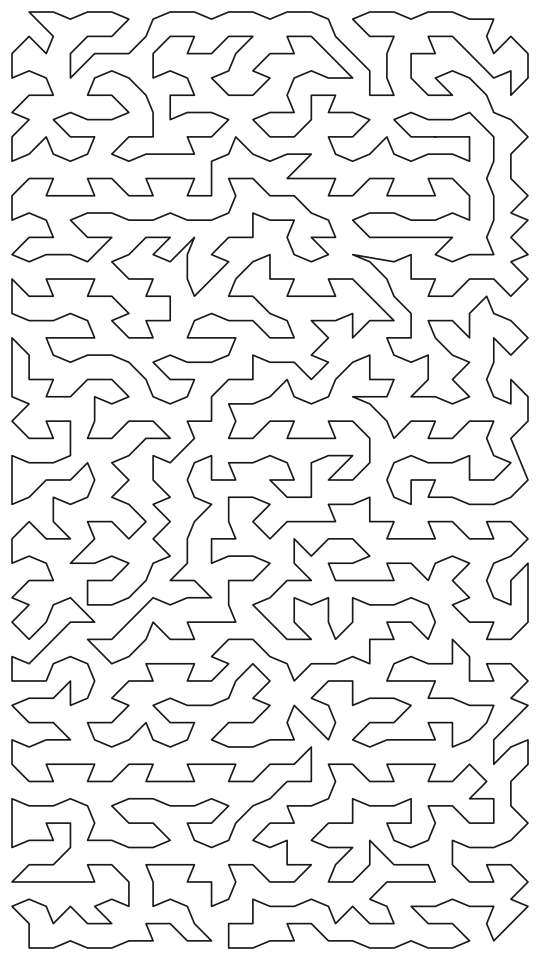
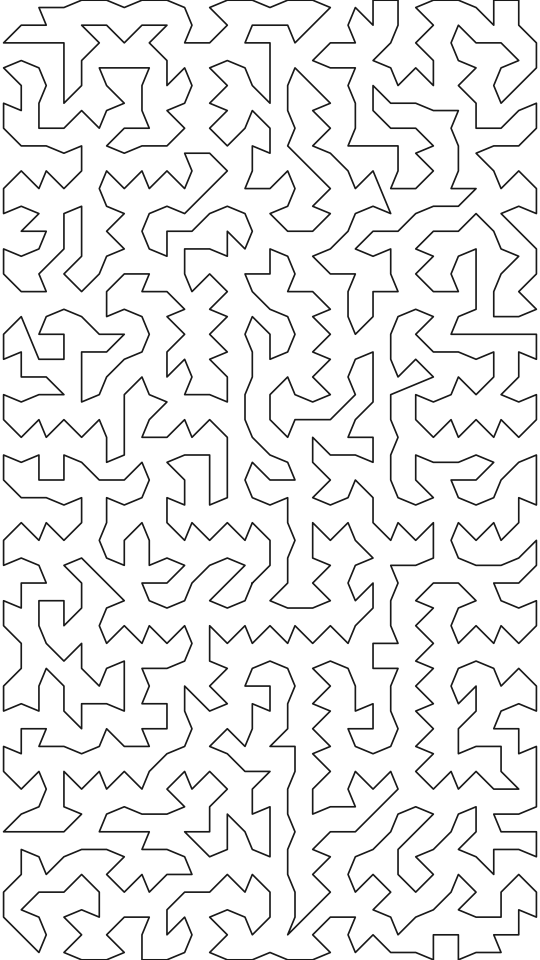
Match DPI in grid and path files

Changed region(s): [[0.0, 0.0, 1.0, 1.0]]

diff --git a/src/hamiltonian_path.py b/src/hamiltonian_path.py
@@ -24,14 +24,18 @@ MARGIN = 12  # pixel padding around the drawing region
 
 def extract_vertices_from_tiling(tiling: AmmannBeenkerTiling,
                                k_range: range = None) -> List[Tuple[float, float]]:
-    """Extract all unique vertices from the Ammann-Beenker tiling."""
+    """Extract all unique vertices from the Ammann-Beenker tiling.
+
+    Uses the EXACT same coordinate transformation as the grid plotting
+    to ensure perfect alignment.
+    """
     if k_range is None:
         k_range = range(-15, 16)
 
-    # Generate tiles
+    # Generate tiles using the same parameters as the grid
     squares, rhombi = tiling.generate_tiles(k_range, width=5.4, height=9.6)
 
-    # Collect all unique vertices
+    # Collect all unique vertices in the tiling's native coordinate system
     vertex_set = set()
 
     # Add vertices from squares
@@ -48,31 +52,27 @@ def extract_vertices_from_tiling(tiling: AmmannBeenkerTiling,
             vertex_tuple = (round(vertex[0], 6), round(vertex[1], 6))
             vertex_set.add(vertex_tuple)
 
-    # Convert to list and scale to pixel coordinates
+    # Convert to list - keep in tiling coordinate system
     vertices = list(vertex_set)
 
-    # Transform coordinates to fit within 540x960 with margins
     if not vertices:
         raise ValueError("No vertices generated from tiling")
 
-    xs = [x for x, y in vertices]
-    ys = [y for x, y in vertices]
-    min_x, max_x = min(xs), max(xs)
-    min_y, max_y = min(ys), max(ys)
-    span_x = max_x - min_x
-    span_y = max_y - min_y
+    # Transform using EXACTLY the same method as the grid plotting
+    # Grid uses: ax.set_xlim(-half_width, half_width), ax.set_ylim(-half_height, half_height)
+    # where half_width = 2.7, half_height = 4.8
+    # Then maps to 540x960 pixels
 
-    if span_x == 0 or span_y == 0:
-        raise ValueError("Degenerate vertex dimensions detected")
+    half_width = 5.4 / 2   # 2.7
+    half_height = 9.6 / 2  # 4.8
 
-    # Scale to fit within margins
-    scale_x = (WIDTH - 2 * MARGIN) / span_x
-    scale_y = (HEIGHT - 2 * MARGIN) / span_y
-    offset_x = MARGIN - scale_x * min_x
-    offset_y = MARGIN - scale_y * min_y
-
-    scaled_vertices = [(scale_x * x + offset_x, scale_y * y + offset_y)
-                      for x, y in vertices]
+    # Convert from tiling coordinates (-2.7 to 2.7, -4.8 to 4.8) to pixel coordinates (0 to 540, 0 to 960)
+    scaled_vertices = []
+    for x, y in vertices:
+        # Map from tiling coordinate system to pixel coordinates
+        pixel_x = (x + half_width) * (WIDTH / 5.4)   # Convert to 0-540 range
+        pixel_y = (y + half_height) * (HEIGHT / 9.6)  # Convert to 0-960 range
+        scaled_vertices.append((pixel_x, pixel_y))
 
     return scaled_vertices
 
